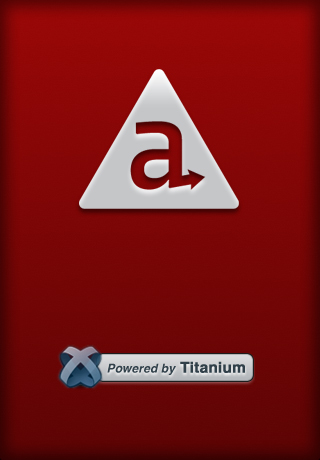
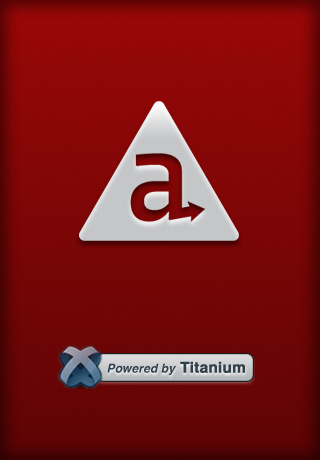
[TIMOB-5698] Finished zooming, bounds, and routes in Ti.Map.View. About halfway done with annnotations.
Former-commit-id: 38b51e6ffb2c939e989d9279830a65470554d593

Changed region(s): [[0.25, 0.1522, 0.75, 0.5478]]

diff --git a/mobileweb/titanium/Ti/_/Map/Google.js b/mobileweb/titanium/Ti/_/Map/Google.js
@@ -1,7 +1,7 @@
 define(["Ti/_/declare", "Ti/_/lang", "Ti/App/Properties", "Ti/Map", "Ti/UI/View"], function(declare, lang, Properties, Map, View) {
 
 	function mapType(type) {
-		var t = google.maps.MapTypeId;
+		var t = gmaps.MapTypeId;
 		switch (type) {
 			case Map.HYBRID_TYPE: return t.HYBRID;
 			case Map.SATELLITE_TYPE: return t.SATELLITE;
@@ -11,29 +11,92 @@ define(["Ti/_/declare", "Ti/_/lang", "Ti/App/Properties", "Ti/Map", "Ti/UI/View"
 	};
 
 	var isDef = lang.isDef,
+		mix = require.mix,
+		defaultRegion = {
+			latitude: 39.828175,
+			longitude: -98.5795,
+			latitudeDelta: 30.137412,
+			longitudeDelta: 63.235658
+		},
+		gmaps,
+		activeInfoWindow,
+		// the order of the markers MUST match the ANNOTATION_* constants defined in Ti.Map
+		markers = ["red", "green", "purple"],
+		onload = Ti.deferStart(),
 		MapView = declare("Ti.Map.View", View, {
 
 			constructor: function() {
 				this.properties.annotations = [];
 				this._routes = [];
-				this.properties.__values__.region = {
-					longitude: -98.5795,
-					latitude: 39.828175,
-					longitudeDelta: 0,
-					latitudeDelta: 0
-				};
+				this.fireEvent("loading");
 			},
 
 			postscript: function() {
-				var m = google.maps,
-					opts = {
-						zoom: 2,
+				var region = this.region,
+					gmap = this._gmap = new gmaps.Map(this.domNode, {
 						disableDefaultUI: true,
+						zoom: 2,
 						zoomControl: true,
-						center: new m.LatLng(this.region.latitude, this.region.longitude),
+						center: new gmaps.LatLng(region.latitude, region.longitude),
 						mapTypeId: mapType(this.mapType)
-					};
-				this._map = new m.Map(this.domNode, opts);
+					});
+
+				gmaps.event.addListener(gmap, "bounds_changed", lang.hitch(this, "_fitRegion"));
+				this._updateMap(region, 1);
+
+				this.annotations.forEach(function(a, i) {
+					var marker = markers[a.pincolor | 0],
+						title = a._getTitle(),
+						subtitle = a._getSubtitle(),
+						onInfoWindowClick = lang.hitch(this, function() {
+							a._onclick(this, i, "pin");
+						}),
+						opts = {
+							map: gmap,
+							icon: marker[0],
+							shadow: marker[1],
+							position: new gmaps.LatLng(a.latitude, a.longitude),
+							title: title
+						};
+
+					a.animate && (opts.animation = gmaps.Animation.DROP);
+					marker = a.marker = new gmaps.Marker(opts);
+
+					gmaps.event.addListener(marker, "click", lang.hitch(this, function() {
+						if (activeInfoWindow) {
+							activeInfoWindow.close();
+							onInfoWindowClick();
+						}
+
+						(activeInfoWindow = new gmaps.InfoWindow({
+							// image: void 0,			// string or Titanium.Blob
+							// leftButton: void 0,		// number or string
+							// leftView: void 0,		// Ti.UI.View
+							// rightButton: void 0,	// number or string
+							// rightView: void 0,		// Ti.UI.View
+							content: "<p><strong>" + title + "</strong></p><p>" + subtitle + "</p>"
+						})).open(gmap, marker);
+
+						gmaps.event.addListener(activeInfoWindow, "closeclick", onInfoWindowClick);
+
+						onInfoWindowClick();
+
+						this.fireEvent("click", {
+							annotation: a,
+							clicksource: "pin",
+							index: i,
+							latitude: a.latitude,
+							longitude: a.longitude,
+							map: this,
+							subtitle: subtitle,
+							title: title
+						});
+					}));
+
+					this.properties.__values__.annotations[i] = a;
+				}, this);
+
+				// TODO: userLocation???
 			},
 
 			addAnnotation: function(/*Object|Ti.Map.Annotation*/annotation) {
@@ -49,14 +112,17 @@ define(["Ti/_/declare", "Ti/_/lang", "Ti/App/Properties", "Ti/Map", "Ti/UI/View"
 			},
 
 			addRoute: function(/*Object*/route) {
-				this._routes.push(route);
-				/*
-				TODO: add the route
-				color 	String 					Color to use when drawing the route.
-				name 	String 					Route name.
-				points 	Array<MapPointType> 	Array of map points making up the route. {longitude,latitude}
-				width 	Number 					Line width to use when drawing the route. 
-				*/
+				if (route && (route.points || []).length) {
+					route.pline = new gmaps.Polyline({
+						map: this._gmap,
+						path: route.points.map(function(p) {
+							return new gmaps.LatLng(p.latitude, p.longitude);
+						}),
+						strokeColor: route.color || "#000",
+						strokeWeight: route.width || 1
+					});
+					this._routes.push(route);
+				}
 			},
 
 			deselectAnnotation: function(/*String|Ti.Map.Annotation*/annotation) {
@@ -95,7 +161,7 @@ define(["Ti/_/declare", "Ti/_/lang", "Ti/App/Properties", "Ti/Map", "Ti/UI/View"
 						i = 0;
 					for (; i < r.length; i++) {
 						if (r[i].name === route.name) {
-							// TODO: remove the route
+							route.pline.setMap(null);
 							r.splice(i--, 1);
 						}
 					}
@@ -113,10 +179,12 @@ define(["Ti/_/declare", "Ti/_/lang", "Ti/App/Properties", "Ti/Map", "Ti/UI/View"
 				isDef(location.animate) && (this.animated = location.animate);
 				isDef(location.animated) && (this.animated = location.animated);
 				isDef(location.regionFit) && (this.regionFit = location.regionFit);
+				this._updateMap(location);
 			},
 
 			zoom: function(level) {
-				// TODO: Relative zoom level (positive to zoom in, negative to zoom out).
+				var gmap = this._gmap;
+				gmap.setZoom(gmap.getZoom() + level);
 			},
 
 			_getAnnotationTitle: function(/*String|Ti.Map.Annotation*/a) {
@@ -136,6 +204,46 @@ define(["Ti/_/declare", "Ti/_/lang", "Ti/App/Properties", "Ti/Map", "Ti/UI/View"
 				return null;
 			},
 
+			_fitRegion: function() {
+				var c = this.constants,
+					gmap = this._gmap,
+					center = gmap.getCenter(),
+					bounds = gmap.getBounds(),
+					ne = bounds.getNorthEast(),
+					sw = bounds.getSouthWest(),
+					latD = c.latitudeDelta = ne.lat() - sw.lat(),
+					lngD = c.longitudeDelta = ne.lng() - sw.lng(),
+					region = {
+						latitude: center.lat(),
+						longitude: center.lng(),
+						latitudeDelta: latD,
+						longitudeDelta: lngD
+					};
+
+				this.regionFit && (this.properties.__values__.region = region);
+
+				if (!this._initialized) {
+					this._initialized = 1;
+					this.fireEvent("complete");
+				}
+
+				this.fireEvent("regionChanged", region);
+			},
+
+			_updateMap: function(region, dontAnimate) {
+				var gmap = this._gmap;
+				if (gmap) {
+					var animated = !dontAnimate && this.animated,
+						latD = region.latitudeDelta / 2,
+						lngD = region.longitudeDelta / 2;
+					gmap[animated ? "panTo" : "setCenter"](new gmaps.LatLng(region.latitude, region.longitude));
+					gmap[animated ? "panToBounds" : "fitBounds"](new gmaps.LatLngBounds(
+						new gmaps.LatLng(region.latitude - latD, region.longitude - lngD),
+						new gmaps.LatLng(region.latitude + latD, region.longitude + lngD)
+					));
+				}
+			},
+
 			constants: {
 				latitudeDelta: 0,
 				longitudeDelta: 0
@@ -145,19 +253,25 @@ define(["Ti/_/declare", "Ti/_/lang", "Ti/App/Properties", "Ti/Map", "Ti/UI/View"
 				animated: false,
 				annotations: {
 					set: function(value) {
-						return value.filter(function(a) { return a && a.declaredClass === "Ti.Map.Annotation"; });
+						value = value.filter(function(a) { return a && a.declaredClass === "Ti.Map.Annotation"; });
+						// TODO: update annotations
+						return value;
 					}
 				},
 				mapType: {
 					set: function(value) {
-						this._map && this._map.setMapTypeId(mapType(value));
+						this._gmap && this._gmap.setMapTypeId(mapType(value));
 						return value;
 					}
 				},
 				region: {
-					set: function(value, oldValue) {
-						return require.mix(oldValue, value);
-					}
+					set: function(newValue, oldValue) {
+						return mix({}, defaultRegion, oldValue, newValue);
+					},
+					post: function(value) {
+						this._updateMap(value);
+					},
+					value: null
 				},
 				regionFit: true,
 				userLocation: false
@@ -165,7 +279,22 @@ define(["Ti/_/declare", "Ti/_/lang", "Ti/App/Properties", "Ti/Map", "Ti/UI/View"
 
 		});
 
-	window.TiMapViewInit = Ti.deferStart();
+	window.TiMapViewInit = function() {
+		gmaps = google.maps;
+
+		var prefix = "/themes/" + require.config.ti.theme + "/Map/marker_",
+			point = gmaps.Point;
+
+		function makeMarker(color, x1, x2) {
+			return new gmaps.MarkerImage(prefix + color + ".png", new gmaps.Size(x1, 34), new point(x2, 0), new point(10, 34));
+		}
+
+		markers = markers.map(function(color) {
+			return [makeMarker(color, 20, 0), makeMarker(color, 37, 20)];
+		});
+
+		onload();
+	};
 
 	require(["http://maps.googleapis.com/maps/api/js?key=" + Properties.getString("ti.map.apikey", "") + "&sensor=false&callback=TiMapViewInit"]);
 

diff --git a/mobileweb/titanium/Ti/Map/Annotation.js b/mobileweb/titanium/Ti/Map/Annotation.js
@@ -1,43 +1,39 @@
 define(["Ti/_/declare", "Ti/_/Evented", "Ti/Locale"], function(declare, Evented, Locale) {
 
-	var undef;
-
 	return declare("Ti.Map.Annotation", Evented, {
 
-		onclick: function(mapview, idx, src) {
+		_onclick: function(mapview, idx, src) {
 			this.fireEvent("click", {
-				index: idx,
-				title: this.title,
-				map: mapview,
+				annotation: this,
 				clicksource: src,
-				annotation: this
+				index: idx,
+				map: mapview,
+				title: this.title
 			});
+		},
+
+		_getTitle: function() {
+			return Locale._getString(this.titleid, this.title);
+		},
+
+		_getSubtitle: function() {
+			return Locale._getString(this.subtitleid, this.subtitle);
 		},
 
 		properties: {
 			animate: false,
-			image: undef,		// string or Titanium.Blob
-			latitude: undef,	// number
-			longitude: undef,	// number
-			leftButton: undef,	// number or string
-			leftView: undef,	// Ti.UI.View
-			pincolor: undef,	// ANNOTATION_RED or ANNOTATION_PURPLE or ANNOTATION_GREEN
-			rightButton: undef,	// number or string
-			rightView: undef,	// Ti.UI.View
-			subtitle: undef,	// string
-			subtitleid: {
-				set: function(value) {
-					this.subtitle = Locale.getString(value);
-					return value;
-				}
-			},
-			title: undef,
-			titleid: {
-				set: function(value) {
-					this.title = Locale.getString(value);
-					return value;
-				}
-			}
+			image: void 0,			// string or Titanium.Blob
+			latitude: void 0,		// number
+			longitude: void 0,		// number
+			leftButton: void 0,		// number or string
+			leftView: void 0,		// Ti.UI.View
+			pincolor: void 0,		// ANNOTATION_RED or ANNOTATION_PURPLE or ANNOTATION_GREEN
+			rightButton: void 0,	// number or string
+			rightView: void 0,		// Ti.UI.View
+			subtitle: void 0,		// string
+			subtitleid: void 0,
+			title: void 0,
+			titleid: void 0
 		}
 
 	});

diff --git a/mobileweb/titanium/Ti/API.js b/mobileweb/titanium/Ti/API.js
@@ -5,7 +5,7 @@ define(["Ti/_/Evented", "Ti/_/lang"], function(Evented, lang) {
 	require.each(["debug", "error", "info", "log", "warn"], function(fn) {
 		api[fn] = function() {
 			console[fn]("[" + fn.toUpperCase() + "] " + lang.toArray(arguments).map(function(a) {
-				return require.is(a, "Object") ? a.toString ? a.toString() : JSON.stringify(a) : a === null ? "null" : a === undefined ? "undefined" : a;
+				return require.is(a, "Object") ? a.hasOwnProperty("toString") ? a.toString() : JSON.stringify(a) : a === null ? "null" : a === undefined ? "undefined" : a;
 			}).join(' '));
 		};
 	});

diff --git a/mobileweb/titanium/Ti/Map.js b/mobileweb/titanium/Ti/Map.js
@@ -3,9 +3,11 @@ define(["Ti/_/Evented", "Ti/_/lang"], function(Evented, lang) {
 	return lang.setObject("Ti.Map", Evented, {
 
 		constants: {
+			// these constants MUST match the correct order of the markers in Ti.Map.View
 			ANNOTATION_GREEN: 1,
 			ANNOTATION_PURPLE: 2,
 			ANNOTATION_RED: 0,
+
 			HYBRID_TYPE: 2,
 			SATELLITE_TYPE: 1,
 			STANDARD_TYPE: 0,

diff --git a/mobileweb/splash/splash.css b/mobileweb/splash/splash.css
@@ -24,7 +24,7 @@
 	left: 50%;
 	margin-left: -85px;
 	position: absolute;
-	top: 15%;
+	top: 22%;
 	width: 170px;
 }
 
@@ -37,6 +37,16 @@
 	position: absolute;
 	bottom: 15%;
 	width: 200px;
+}
+
+@media all and (max-height: 320px) {
+	#splash:before {
+		top: 15%;
+	}
+
+	#splash:after {
+		bottom: 12%;
+	}
 }
 
 @media all and (min-height: 699px) {
